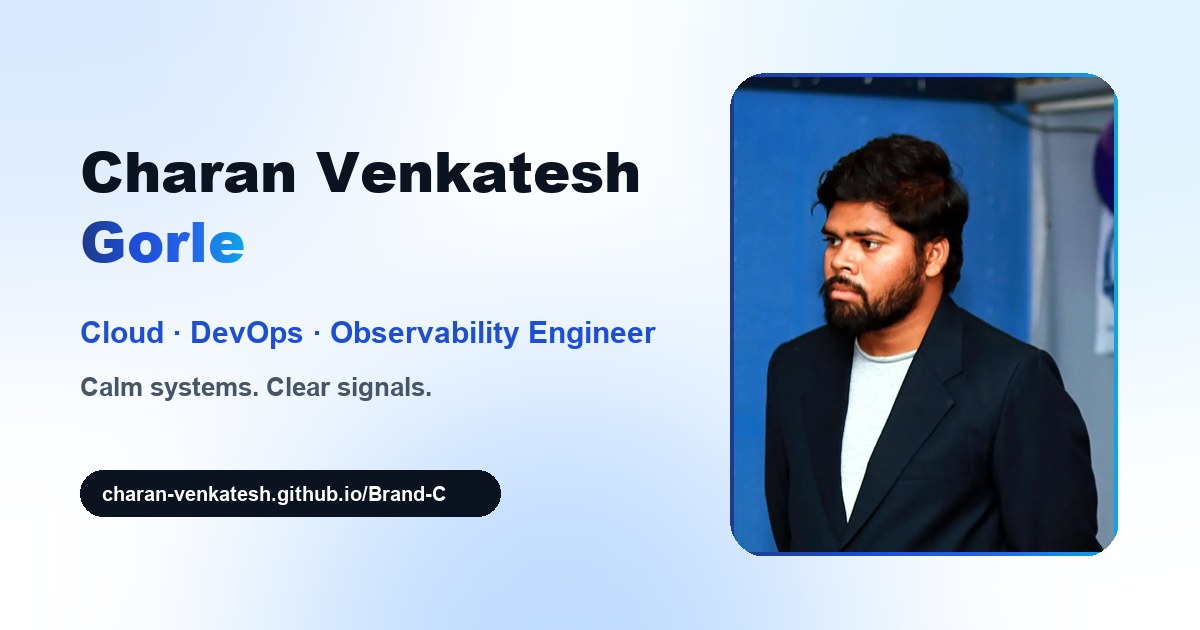
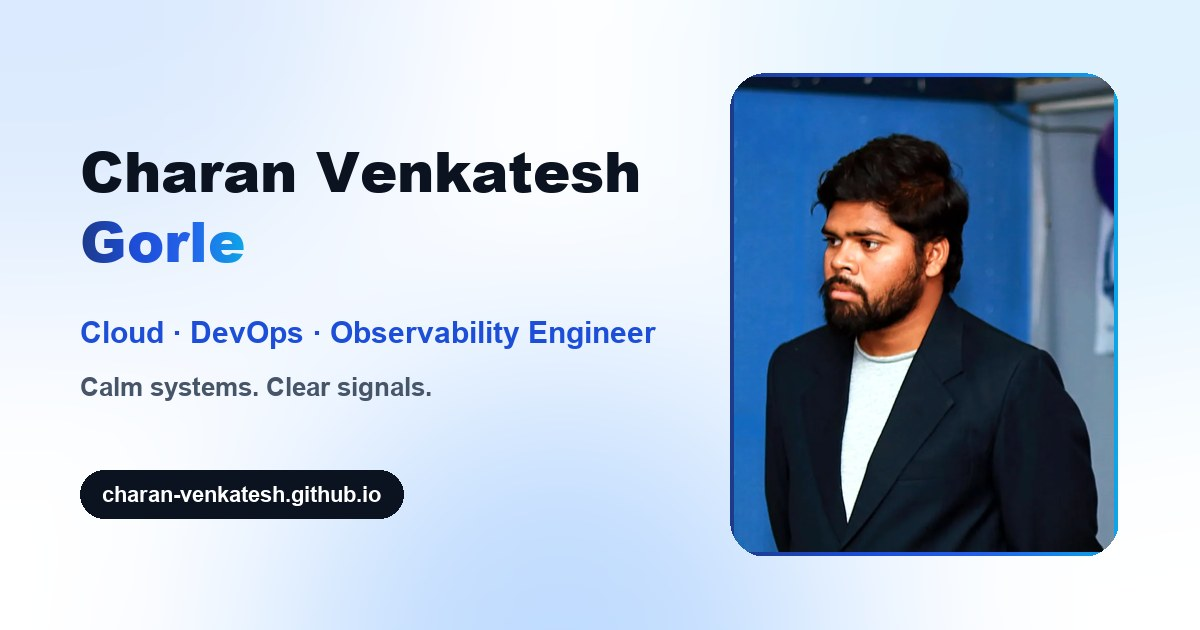
Move site to the root address charan-venkatesh.github.io
- SITE_URL is now https://charan-venkatesh.github.io/ (metadata, sitemap,
  structured data, vCard, README); robots.txt at the domain root
- Deploy workflow: <user>.github.io repos build at the root; any other
  repo (the old Brand-C) builds redirect pages via scripts/redirect-site.mjs,
  so every old /Brand-C/... link lands on the same page at the new address
- QR code and share image regenerated with the new address

Changed region(s): [[0.0925, 0.7238, 0.4317, 0.8444]]

diff --git a/src/app/layout.tsx b/src/app/layout.tsx
@@ -4,7 +4,7 @@ import "./globals.css";
 import { SiteEffects } from "@/components/SiteEffects";
 import { CommandPalette } from "@/components/CommandPalette";
 import { FloatingWhatsApp } from "@/components/ContactSection";
-import { CONTACT_EMAIL, CONTACT_PHONE_TEL, GITHUB_URL, GOOGLE_SITE_VERIFICATION, LINKEDIN_URL } from "@/data/portfolio";
+import { CONTACT_EMAIL, CONTACT_PHONE_TEL, GITHUB_URL, GOOGLE_SITE_VERIFICATION, LINKEDIN_URL, SITE_URL } from "@/data/portfolio";
 
 const geistSans = Geist({
   variable: "--font-geist-sans",
@@ -16,7 +16,6 @@ const geistMono = Geist_Mono({
   subsets: ["latin"],
 });
 
-const SITE_URL = process.env.NEXT_PUBLIC_SITE_URL || "https://charan-venkatesh.github.io/Brand-C/";
 const DESCRIPTION =
   "Charan Venkatesh Gorle — Cloud, DevOps & Observability engineer. OpenTelemetry tracing for enterprise AI agents, software for Indian Navy operations, and telemetry analytics.";
 

diff --git a/src/data/portfolio.ts b/src/data/portfolio.ts
@@ -7,7 +7,7 @@ export const CONTACT_PHONE = "+91 77807 60730";
 export const CONTACT_PHONE_TEL = "+917780760730";
 export const LINKEDIN_URL = "https://www.linkedin.com/in/charan-venkatesh-gorle/";
 export const GITHUB_URL = "https://github.com/Charan-Venkatesh";
-export const SITE_URL = "https://charan-venkatesh.github.io/Brand-C/";
+export const SITE_URL = "https://charan-venkatesh.github.io/";
 // Google Search Console → Add property → URL prefix → "HTML tag": paste only the content="…" value here.
 export const GOOGLE_SITE_VERIFICATION = "";
 

diff --git a/src/app/robots.ts b/src/app/robots.ts
@@ -1,0 +1,13 @@
+import type { MetadataRoute } from "next";
+import { SITE_URL } from "@/data/portfolio";
+
+export const dynamic = "force-static";
+
+// Served at the domain root on charan-venkatesh.github.io.
+export default function robots(): MetadataRoute.Robots {
+  return {
+    rules: [{ userAgent: "*", allow: "/", disallow: "/admin/" }],
+    sitemap: `${SITE_URL}sitemap.xml`,
+    host: SITE_URL,
+  };
+}

diff --git a/README.md b/README.md
@@ -3,12 +3,12 @@
 **Cloud · DevOps · Observability engineer in Hyderabad, India.**
 *Calm systems. Clear signals.*
 
-🌐 **Live site:** https://charan-venkatesh.github.io/Brand-C/
-👔 **Recruiters & founders — 30-second summary:** https://charan-venkatesh.github.io/Brand-C/hire/
+🌐 **Live site:** https://charan-venkatesh.github.io/
+👔 **Recruiters & founders — 30-second summary:** https://charan-venkatesh.github.io/hire/
 💼 **LinkedIn:** https://www.linkedin.com/in/charan-venkatesh-gorle/
 ✉ **Email:** charanvenkateshgorle@gmail.com · 📞 **Phone / WhatsApp:** +91 77807 60730
 
-[![Portfolio preview](public/og.jpg)](https://charan-venkatesh.github.io/Brand-C/)
+[![Portfolio preview](public/og.jpg)](https://charan-venkatesh.github.io/)
 
 ## Highlights
 - **3 Indian Navy systems deployed and in operational use:** Integrated Flight Safety Monitoring System (INS 324), Logistics File Status Management (INS DEGA) and WhatsApp service-desk routing (INS Circars). Also contributed to RFID-based asset tracking.
